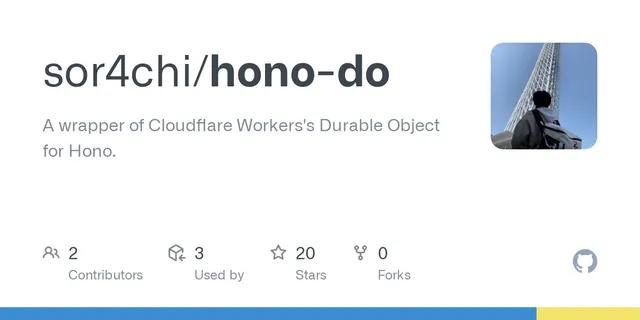
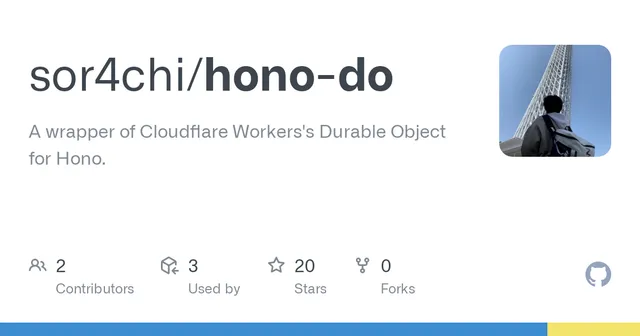
feat: add covered crop system

diff --git a/scripts/optimize.ts b/scripts/optimize.ts
@@ -15,11 +15,19 @@ const resize = async (image: string, size: number) => {
   const input = join(imagePath, image);
   const filename = image.split(".")[0];
   const output = join(imagePath, `${filename}-${size}.webp`);
-  await sharp(input).resize(size).toFile(output);
+  await sharp(input)
+    .resize({
+      width: size,
+      height: (size / 1200) * 630,
+      fit: "cover",
+    })
+    .toFile(output);
 };
 
 const globImages = async () => {
-  const images = glob.sync(`${imagePath}/**/*.{${ext.join(",")}}`);
+  const images = glob
+    .sync(`${imagePath}/**/*.{${ext.join(",")}}`)
+    .filter((image) => image.match(/-\d+\.webp$/) === null);
   return images.map((image) => image.replace(`${imagePath}/`, ""));
 };
 
